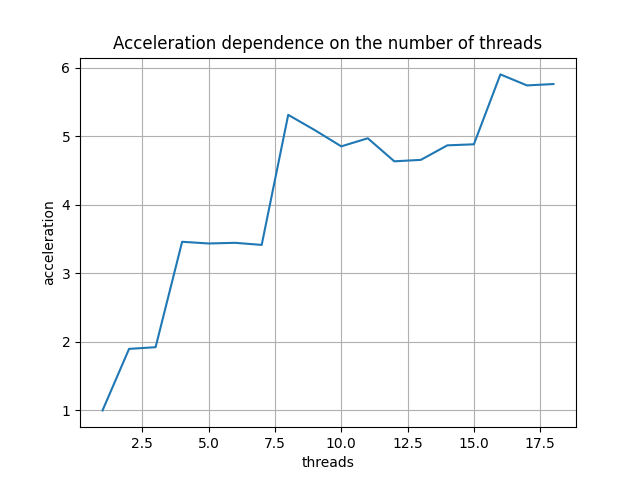
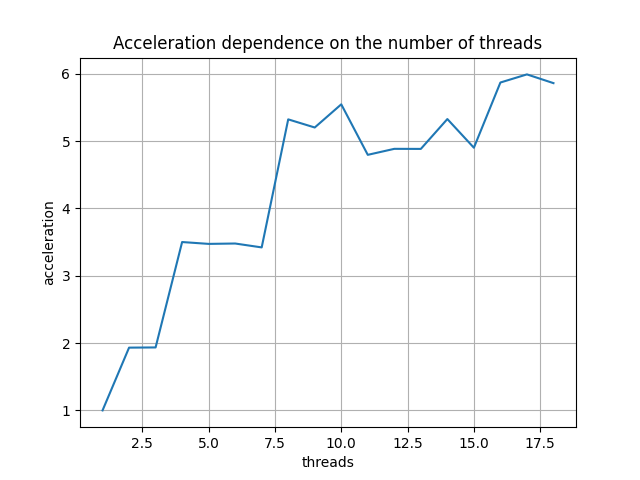
task1 done

diff --git a/term2/task1/main.cpp b/term2/task1/main.cpp
@@ -13,8 +13,7 @@
 
 int main(int argc, char* argv[]) {
 
-
-    const int arraySize = 30e6;
+    const int arraySize = 100e6;
     const int nt = std::stoi(argv[1]);
 
     int *arr = new int[arraySize];
